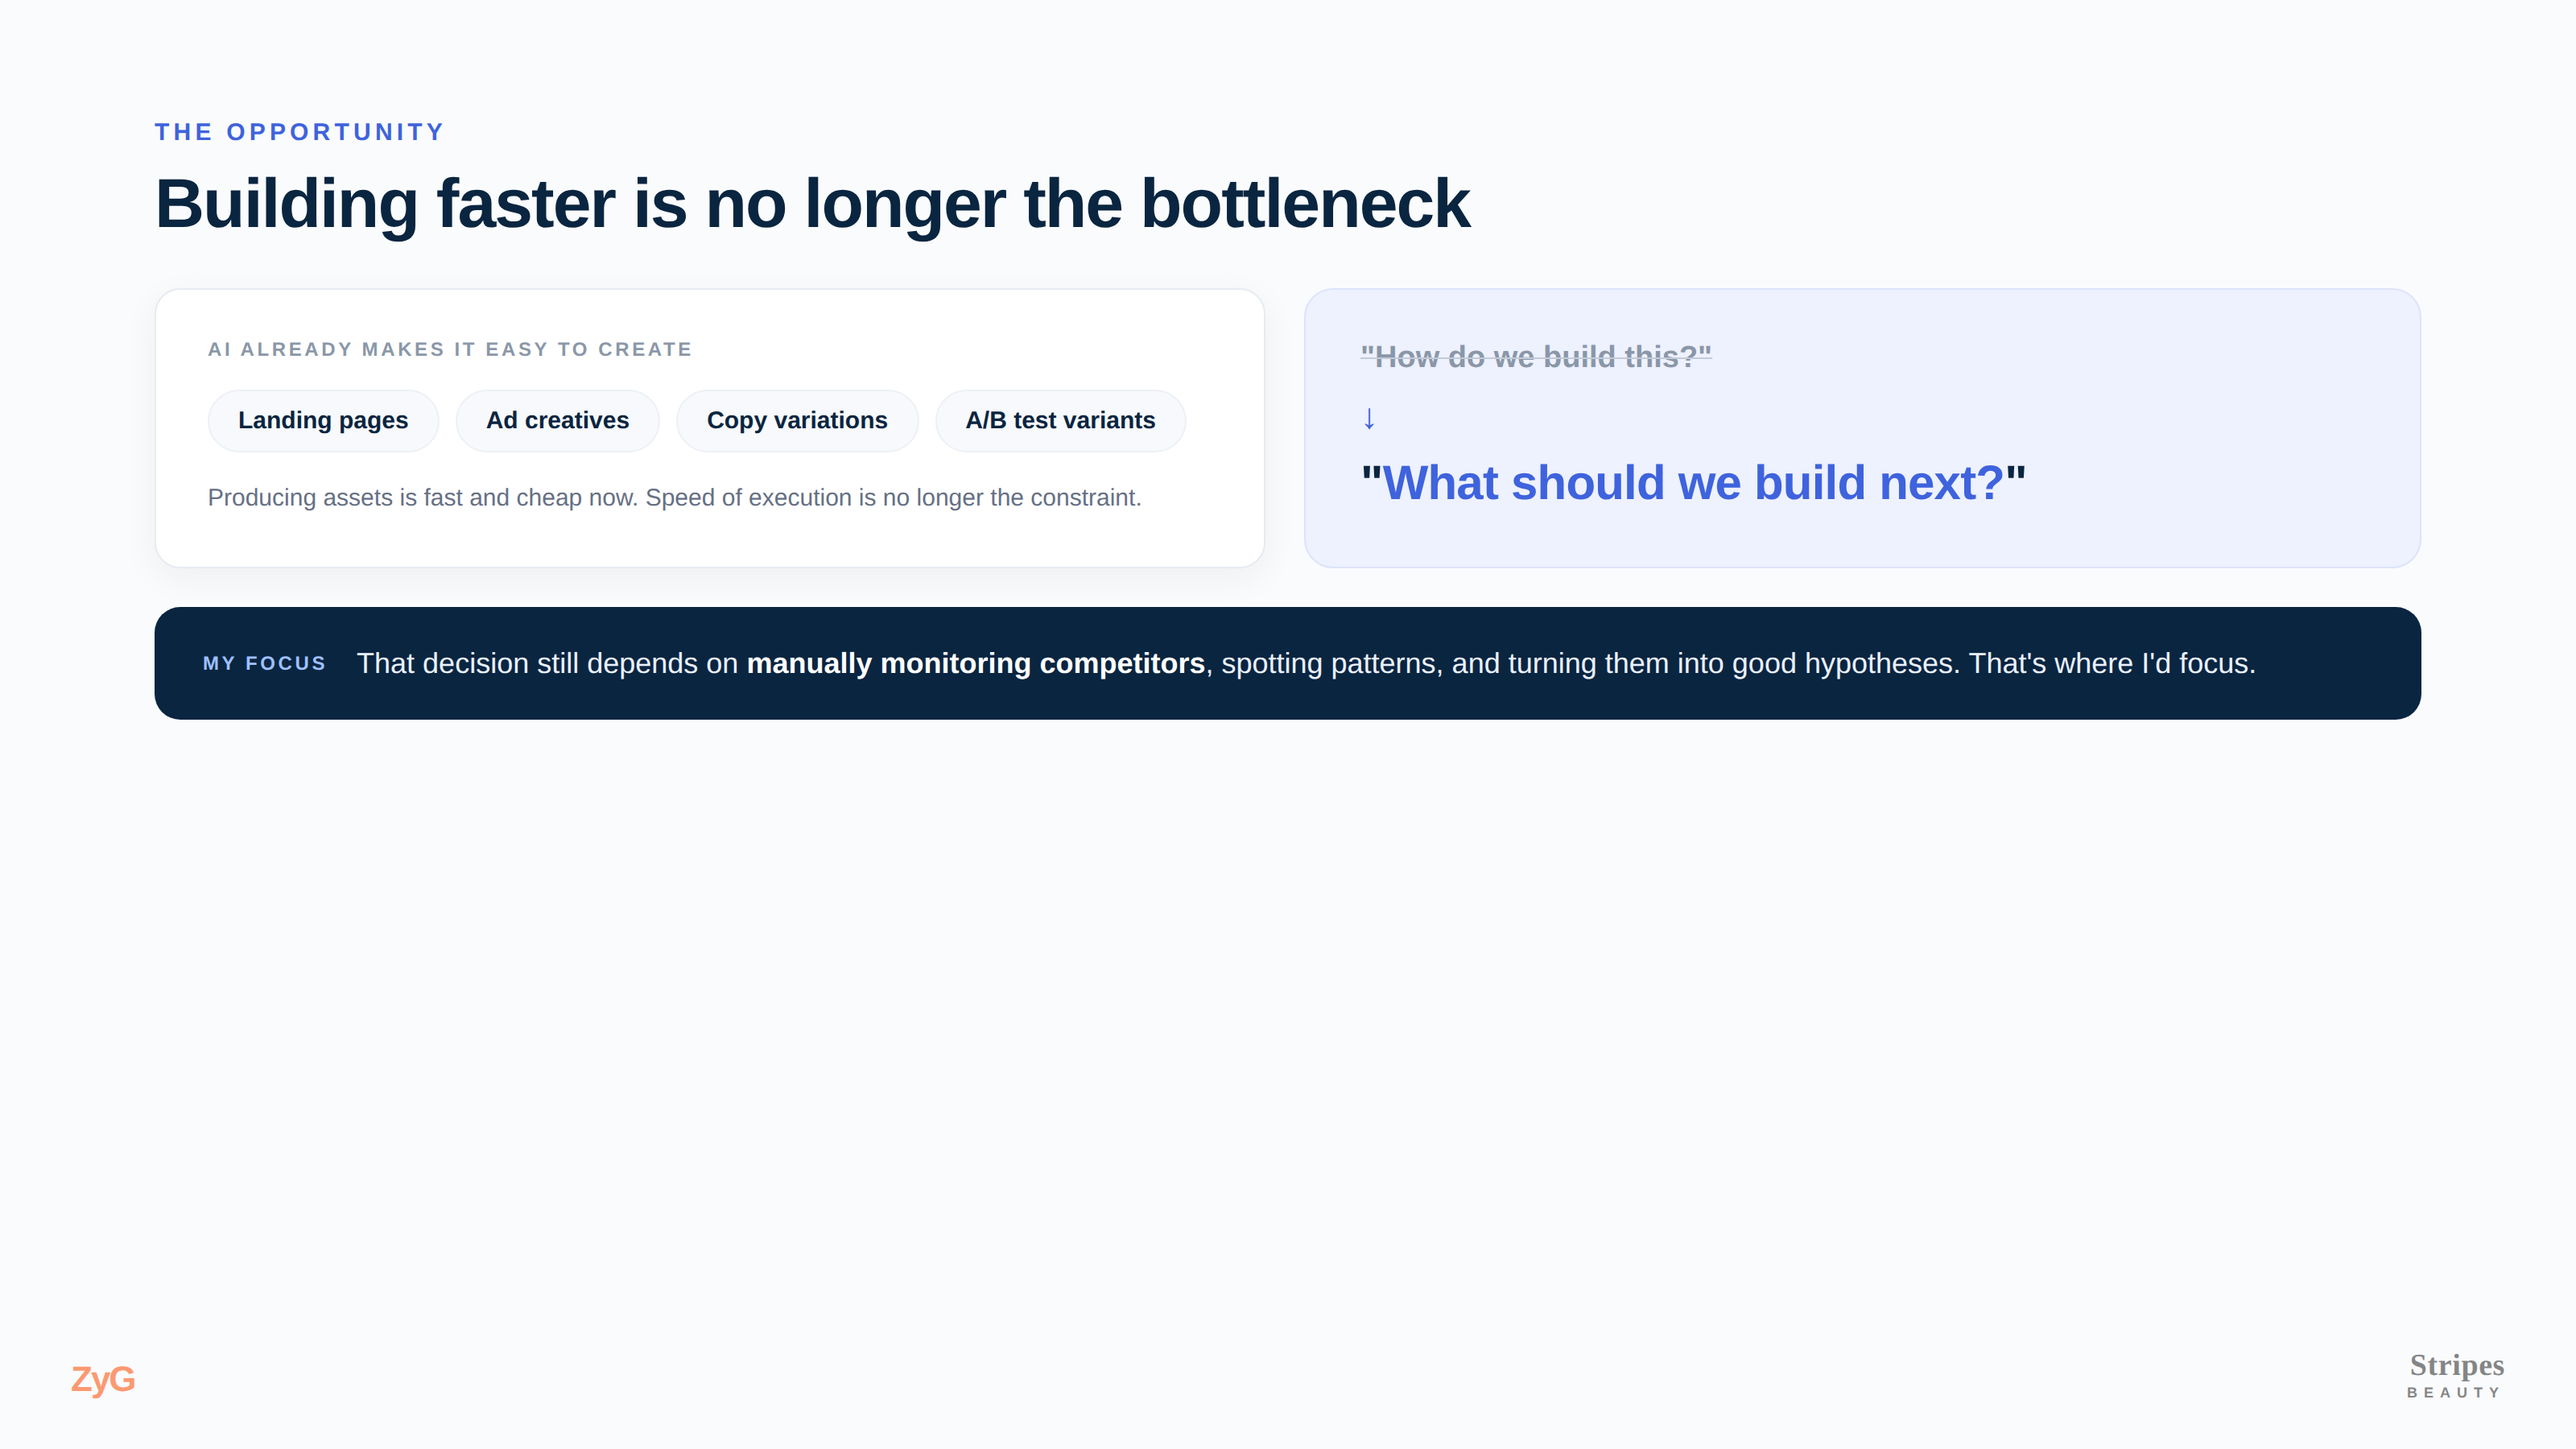
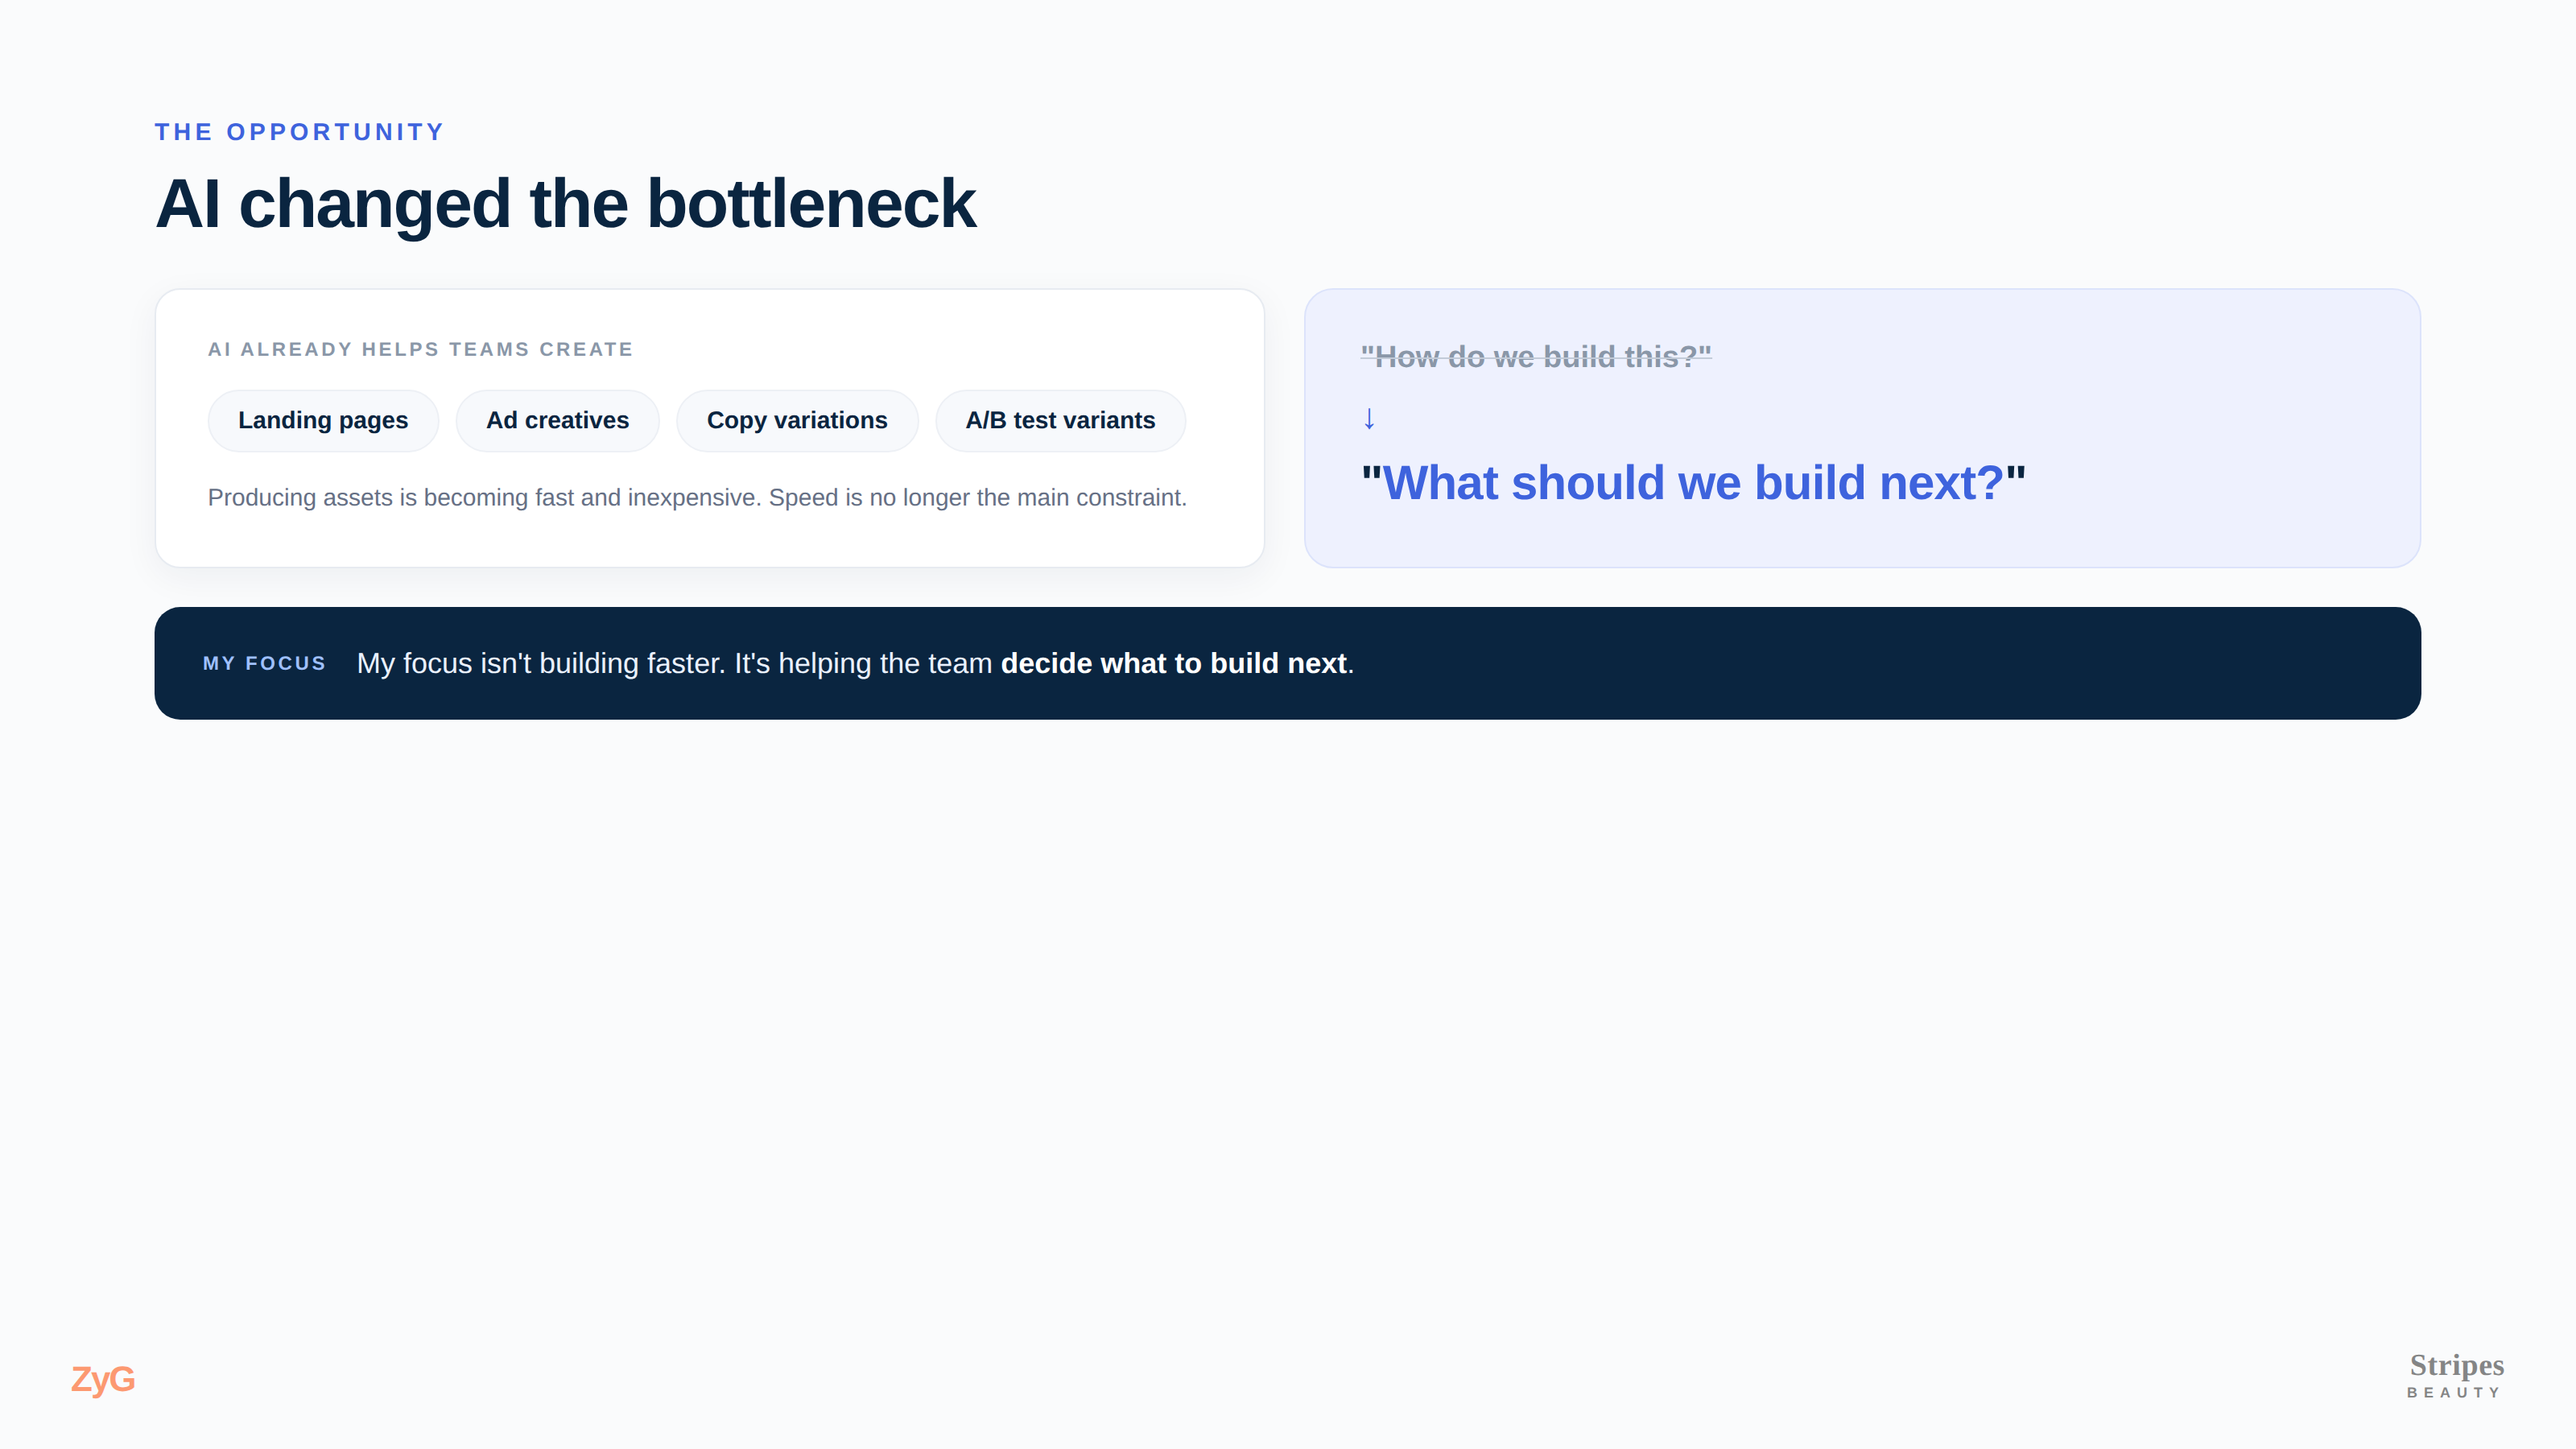
Apply final Part 4 content
Slide 2 'AI changed the bottleneck' + refined takeaway; slide 3 step 2 gains
the four change types as sub-bullets and the brief uses What changed /
Hypothesis / Recommended test / Success metric; slide 4 'Why this shouldn't be
fully automated' with AI-vs-product-teams split and closing takeaway.

Claude-Session: https://claude.ai/code/session_01GoAG3ySswQXo2H1hh5EwTk

diff --git a/diagrams/slides/p4-03-build.html b/diagrams/slides/p4-03-build.html
@@ -1,20 +1,22 @@
 <!doctype html><html><head><meta charset="utf-8"><link rel="stylesheet" href="style.css">
 <style>
   .stage{display:flex;gap:40px;margin-top:14px;align-items:flex-start;}
-  .left{flex:1;padding-top:10px;}
-  .steps{display:flex;flex-direction:column;gap:0;margin-top:22px;}
+  .left{flex:1;padding-top:6px;}
+  .steps{display:flex;flex-direction:column;gap:0;margin-top:18px;}
   .step{display:flex;gap:18px;}
   .step .rail{display:flex;flex-direction:column;align-items:center;}
   .step .n{width:38px;height:38px;border-radius:11px;background:var(--blue-soft);color:var(--blue);font-weight:700;font-size:16px;display:flex;align-items:center;justify-content:center;flex-shrink:0;}
   .step .ln{width:2px;flex:1;background:#E4EAF6;margin:6px 0;}
-  .step .body{padding-bottom:26px;}
-  .step h3{font-size:21px;font-weight:700;color:var(--navy);padding-top:6px;}
-  .step p{font-size:15.5px;color:var(--muted);line-height:1.5;margin-top:7px;max-width:520px;}
+  .step .body{padding-bottom:22px;}
+  .step h3{font-size:20px;font-weight:700;color:var(--navy);padding-top:6px;}
+  .step p{font-size:14.5px;color:var(--muted);line-height:1.5;margin-top:7px;max-width:530px;}
   .step p b{color:var(--navy);font-weight:700;}
   .step:last-child .body{padding-bottom:0;}
   .step:last-child .ln{display:none;}
+  .mini{margin-top:8px;display:grid;grid-template-columns:1fr 1fr;gap:5px 22px;max-width:500px;}
+  .mini .m{display:flex;gap:9px;align-items:center;font-size:14px;color:var(--ink);}
+  .mini .m .d{width:5px;height:5px;border-radius:50%;background:var(--blue);flex-shrink:0;}
 
-  /* the brief mockup */
   .briefwrap{flex:0 0 470px;}
   .brief{background:#fff;border:1px solid var(--line);border-radius:18px;box-shadow:0 18px 50px rgba(16,42,77,.12);padding:30px 34px;}
   .brief .bh{display:flex;align-items:center;justify-content:space-between;}
@@ -23,7 +25,7 @@
   .brief .title{font-size:20px;font-weight:700;color:var(--navy);margin-top:14px;line-height:1.3;}
   .brief .rows{margin-top:18px;display:flex;flex-direction:column;gap:13px;}
   .brief .br{display:flex;gap:12px;align-items:baseline;}
-  .brief .bl{flex:0 0 118px;font-size:11px;font-weight:700;letter-spacing:1px;text-transform:uppercase;color:var(--faint);}
+  .brief .bl{flex:0 0 122px;font-size:11px;font-weight:700;letter-spacing:1px;text-transform:uppercase;color:var(--faint);}
   .brief .bv{font-size:14px;color:var(--ink);line-height:1.45;}
   .brief .bv b{color:var(--navy);font-weight:700;}
   .caption{text-align:center;margin-top:14px;font-size:13px;color:var(--faint);font-weight:600;}
@@ -31,7 +33,7 @@
 <div class="slide">
   <div class="kicker">What I'd Build</div>
   <div class="h1">A Growth Intelligence Agent</div>
-  <div class="lead" style="font-size:17.5px;">Instead of helping the team create assets faster, it helps them discover their next experiment.</div>
+  <div class="lead" style="font-size:17.5px;">Instead of helping the team create assets faster, it helps them discover the next experiment worth running.</div>
 
   <div class="stage">
     <div class="left">
@@ -40,21 +42,27 @@
           <div class="rail"><span class="n">1</span><span class="ln"></span></div>
           <div class="body">
             <h3>It watches the market</h3>
-            <p>Competitor websites and landing pages, Meta Ad Library, pricing, promotions, new funnels and messaging - <b>continuously</b>.</p>
+            <p>Competitor websites, landing pages, Meta Ads Library, pricing, promotions, messaging and new funnels - <b>continuously</b>.</p>
           </div>
         </div>
         <div class="step">
           <div class="rail"><span class="n">2</span><span class="ln"></span></div>
           <div class="body">
-            <h3>It filters the noise</h3>
-            <p>Most changes don't matter. Its job isn't to report everything - it's to spot the <b>meaningful market shifts</b>.</p>
+            <h3>It spots meaningful changes</h3>
+            <p>It ignores most updates and focuses on the few that actually matter:</p>
+            <div class="mini">
+              <div class="m"><span class="d"></span>new offers</div>
+              <div class="m"><span class="d"></span>new messaging</div>
+              <div class="m"><span class="d"></span>new acquisition flows</div>
+              <div class="m"><span class="d"></span>patterns across competitors</div>
+            </div>
           </div>
         </div>
         <div class="step">
           <div class="rail"><span class="n">3</span></div>
           <div class="body">
-            <h3>It writes experiment briefs</h3>
-            <p>Each shift is turned into an <b>experiment brief</b>, ready for the team to review.</p>
+            <h3>It turns insights into experiments</h3>
+            <p>Every relevant market change becomes a <b>ready-to-review experiment brief</b> instead of another Slack message.</p>
           </div>
         </div>
       </div>
@@ -66,15 +74,15 @@
           <span class="bt">Experiment Brief</span>
           <span class="status">Awaiting PM review</span>
         </div>
-        <div class="title">Competitors are moving to symptom-quiz entry flows</div>
+        <div class="title">Competitors are moving to symptom-first entry flows</div>
         <div class="rows">
-          <div class="br"><span class="bl">Insight</span><span class="bv">3 competitors launched quiz-first acquisition flows.</span></div>
-          <div class="br"><span class="bl">Hypothesis</span><span class="bv">A guided symptom entry could increase PDP view rate.</span></div>
-          <div class="br"><span class="bl">Suggested experiment</span><span class="bv">Homepage discovery flow vs. current homepage.</span></div>
-          <div class="br"><span class="bl">Success metric</span><span class="bv"><b>PDP view rate</b></span></div>
+          <div class="br"><span class="bl">What changed</span><span class="bv">3 competitors introduced quiz-first acquisition flows.</span></div>
+          <div class="br"><span class="bl">Hypothesis</span><span class="bv">A symptom-first homepage could increase PDP visits.</span></div>
+          <div class="br"><span class="bl">Recommended test</span><span class="bv">Homepage discovery flow vs. current homepage.</span></div>
+          <div class="br"><span class="bl">Success metric</span><span class="bv"><b>PDP View Rate</b></span></div>
         </div>
       </div>
-      <div class="caption">Example output - the agent drafts it, the PM decides.</div>
+      <div class="caption">The agent drafts the brief. The PM decides whether to run it.</div>
     </div>
   </div>
 

diff --git a/diagrams/slides/p4-04-human.html b/diagrams/slides/p4-04-human.html
@@ -1,49 +1,46 @@
 <!doctype html><html><head><meta charset="utf-8"><link rel="stylesheet" href="style.css">
 <style>
-  .cols{display:flex;gap:24px;margin-top:26px;align-items:stretch;}
-  .col{flex:1;padding:26px 30px 28px;}
+  .cols{display:flex;gap:24px;margin-top:30px;align-items:stretch;}
+  .col{flex:1;padding:28px 32px 30px;}
   .col .cap{font-size:12px;font-weight:700;letter-spacing:1.6px;text-transform:uppercase;color:var(--faint);}
   .col.people .cap{color:var(--blue);}
-  .qs{margin-top:16px;display:flex;flex-direction:column;gap:12px;}
+  .qs{margin-top:18px;display:flex;flex-direction:column;gap:13px;}
   .qq{display:flex;gap:12px;align-items:flex-start;font-size:16.5px;color:var(--ink);line-height:1.4;}
   .qq .d{width:7px;height:7px;border-radius:50%;background:#B7C2D3;margin-top:8px;flex-shrink:0;}
   .col.people .qq{color:var(--navy);font-weight:600;}
   .col.people .qq .d{background:var(--blue);}
-  .goal{margin-top:22px;font-size:15.5px;color:var(--muted);line-height:1.5;text-align:center;}
-  .goal b{color:var(--navy);font-weight:700;}
 
-  .close{margin-top:22px;background:var(--navy);border-radius:18px;padding:28px 38px;text-align:center;}
-  .close .t{font-size:25px;font-weight:600;color:#EAF1FF;line-height:1.4;max-width:1100px;margin:0 auto;}
+  .close{margin-top:30px;background:var(--navy);border-radius:18px;padding:28px 40px;text-align:center;}
+  .close .t{font-size:23px;font-weight:600;color:#EAF1FF;line-height:1.45;max-width:1120px;margin:0 auto;}
   .close .t b{color:#fff;font-weight:700;}
 </style></head><body>
 <div class="slide">
   <div class="kicker">Human in the Loop</div>
-  <div class="h1">The agent recommends. The PM decides.</div>
+  <div class="h1">Why this shouldn't be fully automated</div>
 
   <div class="cols">
     <div class="col card">
-      <div class="cap">AI is good at answering</div>
+      <div class="cap">AI is good at</div>
       <div class="qs">
-        <div class="qq"><span class="d"></span>What's changing?</div>
-        <div class="qq"><span class="d"></span>What patterns are emerging?</div>
-        <div class="qq"><span class="d"></span>What experiments are worth exploring?</div>
+        <div class="qq"><span class="d"></span>Finding market changes</div>
+        <div class="qq"><span class="d"></span>Detecting patterns</div>
+        <div class="qq"><span class="d"></span>Drafting experiment ideas</div>
+        <div class="qq"><span class="d"></span>Preparing experiment briefs</div>
       </div>
     </div>
     <div class="col people card">
-      <div class="cap">People are responsible for</div>
+      <div class="cap">Product teams still decide</div>
       <div class="qs">
         <div class="qq"><span class="d"></span>Does this fit our strategy?</div>
-        <div class="qq"><span class="d"></span>Does it fit our brand?</div>
-        <div class="qq"><span class="d"></span>Is this the right priority?</div>
-        <div class="qq"><span class="d"></span>Should we invest engineering time?</div>
+        <div class="qq"><span class="d"></span>Does this fit our brand?</div>
+        <div class="qq"><span class="d"></span>Is this worth building?</div>
+        <div class="qq"><span class="d"></span>Should this be our next priority?</div>
       </div>
     </div>
   </div>
 
-  <div class="goal">The goal isn't to replace product thinking. It's to remove hours of repetitive competitive research so the team can spend more time <b>making better product decisions</b>.</div>
-
   <div class="close">
-    <div class="t">The biggest opportunity isn't using AI to build faster. It's using AI to help teams <b>decide what to build next</b>.</div>
+    <div class="t">The agent makes sure the team <b>never misses an opportunity</b>. The product team decides <b>which opportunities are worth pursuing</b>.</div>
   </div>
 
   <div class="foot"><div class="zyg">ZyG</div><div class="stripes"><div class="word">Stripes</div><div class="beauty">BEAUTY</div></div></div>

diff --git a/diagrams/slides/p4-02-impact.html b/diagrams/slides/p4-02-impact.html
@@ -22,18 +22,18 @@
 </style></head><body>
 <div class="slide">
   <div class="kicker">The Opportunity</div>
-  <div class="h1">Building faster is no longer the bottleneck</div>
+  <div class="h1">AI changed the bottleneck</div>
 
   <div class="two">
     <div class="box card">
-      <div class="cap">AI already makes it easy to create</div>
+      <div class="cap">AI already helps teams create</div>
       <div class="items">
         <span class="it">Landing pages</span>
         <span class="it">Ad creatives</span>
         <span class="it">Copy variations</span>
         <span class="it">A/B test variants</span>
       </div>
-      <p>Producing assets is fast and cheap now. Speed of execution is no longer the constraint.</p>
+      <p>Producing assets is becoming fast and inexpensive. Speed is no longer the main constraint.</p>
     </div>
 
     <div class="shift">
@@ -45,7 +45,7 @@
 
   <div class="pick">
     <span class="lbl">My focus</span>
-    <div class="t">That decision still depends on <b>manually monitoring competitors</b>, spotting patterns, and turning them into good hypotheses. That's where I'd focus.</div>
+    <div class="t">My focus isn't building faster. It's helping the team <b>decide what to build next</b>.</div>
   </div>
 
   <div class="foot"><div class="zyg">ZyG</div><div class="stripes"><div class="word">Stripes</div><div class="beauty">BEAUTY</div></div></div>
